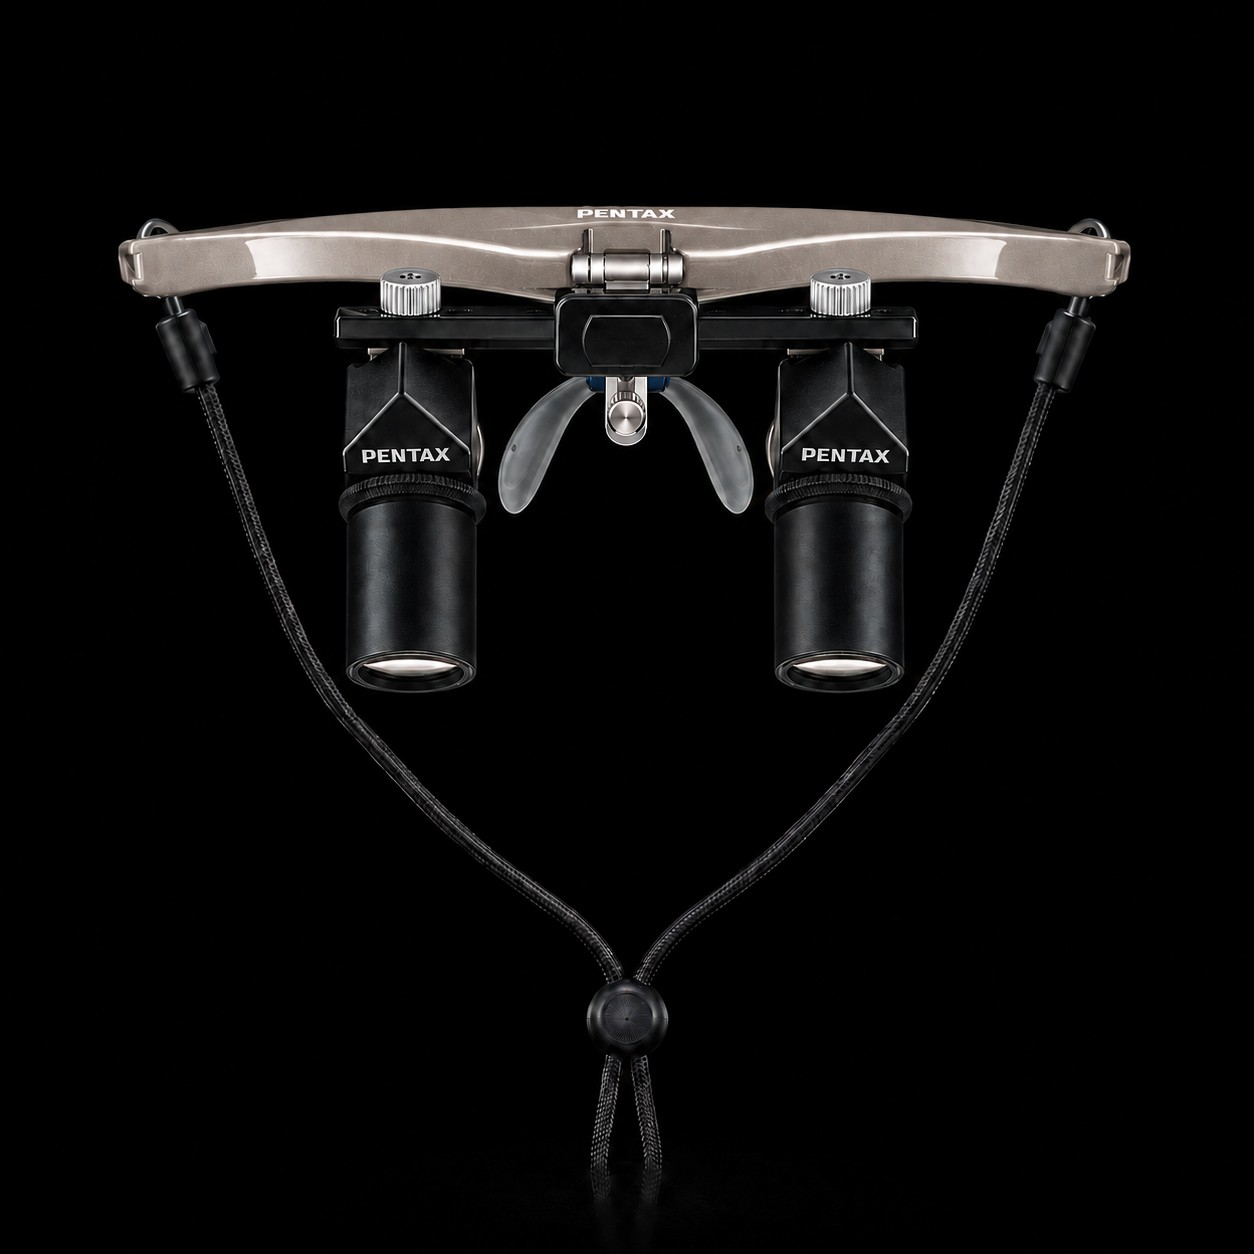
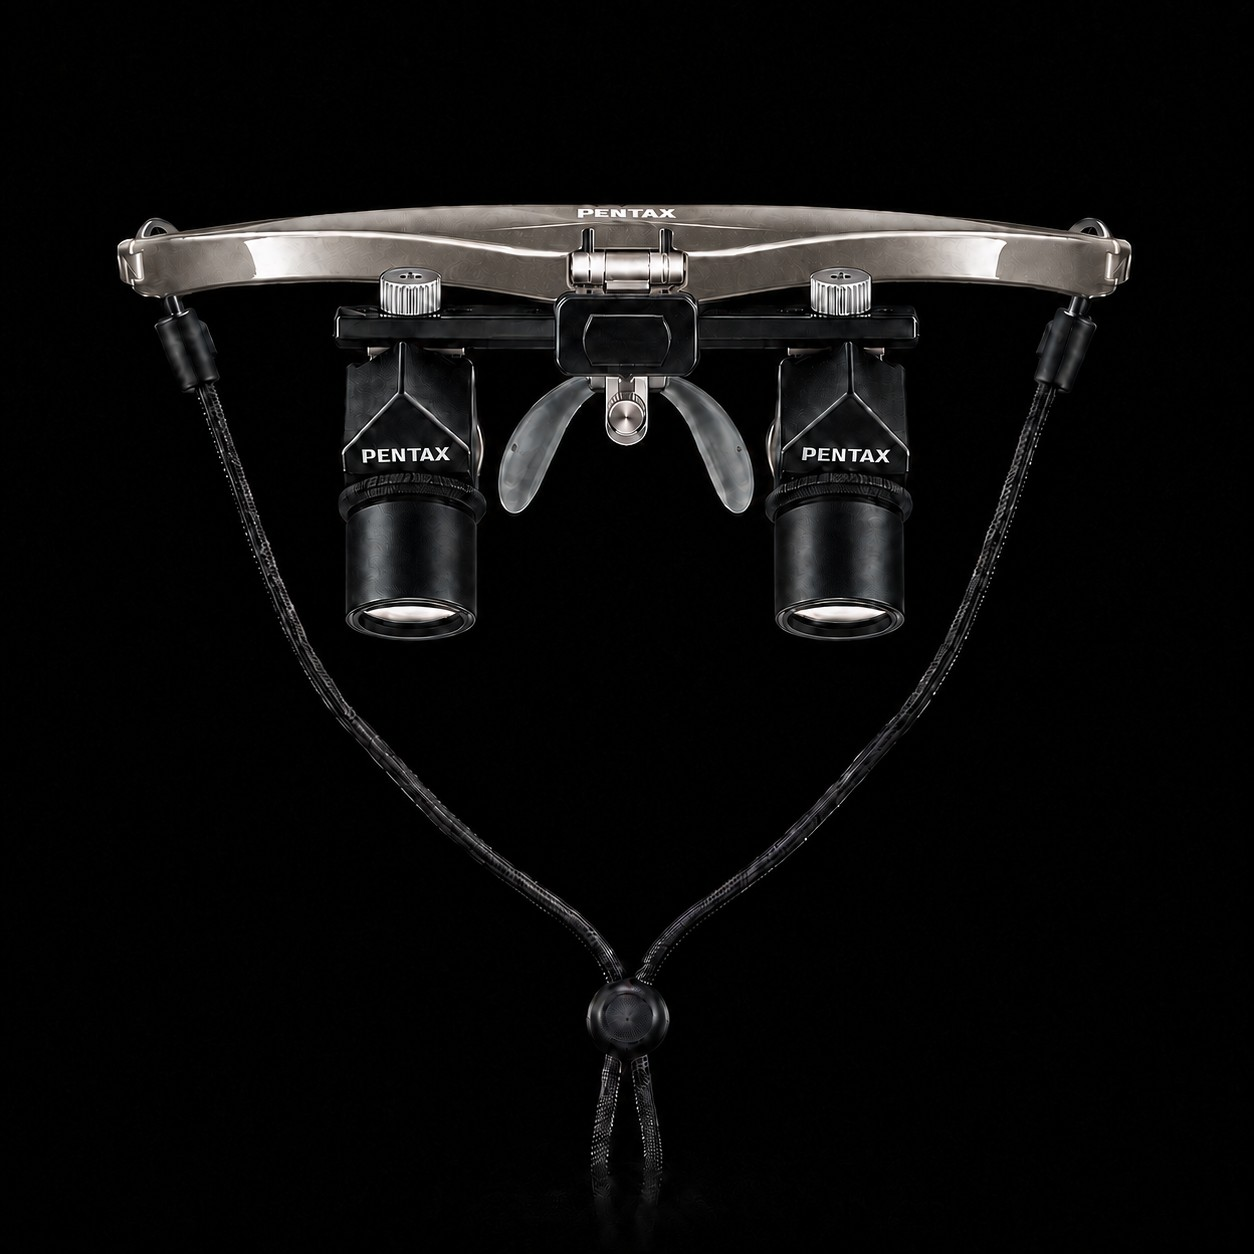
Update the four colour renders to the latest set
Silvergold, Blue, Black and Red cards and previews now use the user's
updated renders (braided cord, PENTAX wordmark on the frame).

diff --git a/index.html b/index.html
@@ -598,28 +598,28 @@
           <div class="cfg__colours" role="group" aria-label="Frame colour">
             <button type="button" class="cfg-colour" data-cfg-option="colour" data-value="Silvergold" aria-pressed="false">
               <span class="cfg-colour__media photo-slot" data-photo-slot>
-                <img src="images/colours/silvergold.jpg?v=3" alt="" hidden />
+                <img src="images/colours/silvergold.jpg?v=4" alt="" hidden />
                 <span class="photo-slot__placeholder"><span class="cfg-colour__dot" style="background:#c9b48a"></span></span>
               </span>
               <span class="cfg-colour__name">Silvergold</span>
             </button>
             <button type="button" class="cfg-colour" data-cfg-option="colour" data-value="Blue" aria-pressed="false">
               <span class="cfg-colour__media photo-slot" data-photo-slot>
-                <img src="images/colours/blue.jpg?v=3" alt="" hidden />
+                <img src="images/colours/blue.jpg?v=4" alt="" hidden />
                 <span class="photo-slot__placeholder"><span class="cfg-colour__dot" style="background:#2c5fe0"></span></span>
               </span>
               <span class="cfg-colour__name">Blue</span>
             </button>
             <button type="button" class="cfg-colour" data-cfg-option="colour" data-value="Black" aria-pressed="false">
               <span class="cfg-colour__media photo-slot" data-photo-slot>
-                <img src="images/colours/black.jpg?v=3" alt="" hidden />
+                <img src="images/colours/black.jpg?v=4" alt="" hidden />
                 <span class="photo-slot__placeholder"><span class="cfg-colour__dot" style="background:#1d1d1f"></span></span>
               </span>
               <span class="cfg-colour__name">Black</span>
             </button>
             <button type="button" class="cfg-colour" data-cfg-option="colour" data-value="Red" aria-pressed="false">
               <span class="cfg-colour__media photo-slot" data-photo-slot>
-                <img src="images/colours/red.jpg?v=3" alt="" hidden />
+                <img src="images/colours/red.jpg?v=4" alt="" hidden />
                 <span class="photo-slot__placeholder"><span class="cfg-colour__dot" style="background:#a3231f"></span></span>
               </span>
               <span class="cfg-colour__name">Red</span>

diff --git a/js/main.js b/js/main.js
@@ -498,7 +498,7 @@ function initConfigurator() {
   // light, Not sure) hide the preview. Magnification reuses the real
   // sample-view photos; the rest are photo slots waiting on client images.
   const PREVIEWS = {
-    colour: (v) => ({ src: `images/previews/colour-${v.toLowerCase()}.jpg?v=3`, label: v }),
+    colour: (v) => ({ src: `images/previews/colour-${v.toLowerCase()}.jpg?v=4`, label: v }),
     magnification: (v) =>
       /^\d/.test(v)
         ? { src: `images/mag-samples/mag-${v.replace("×", "").replace(".", "-")}.jpg`, label: `${v} sample view` }
